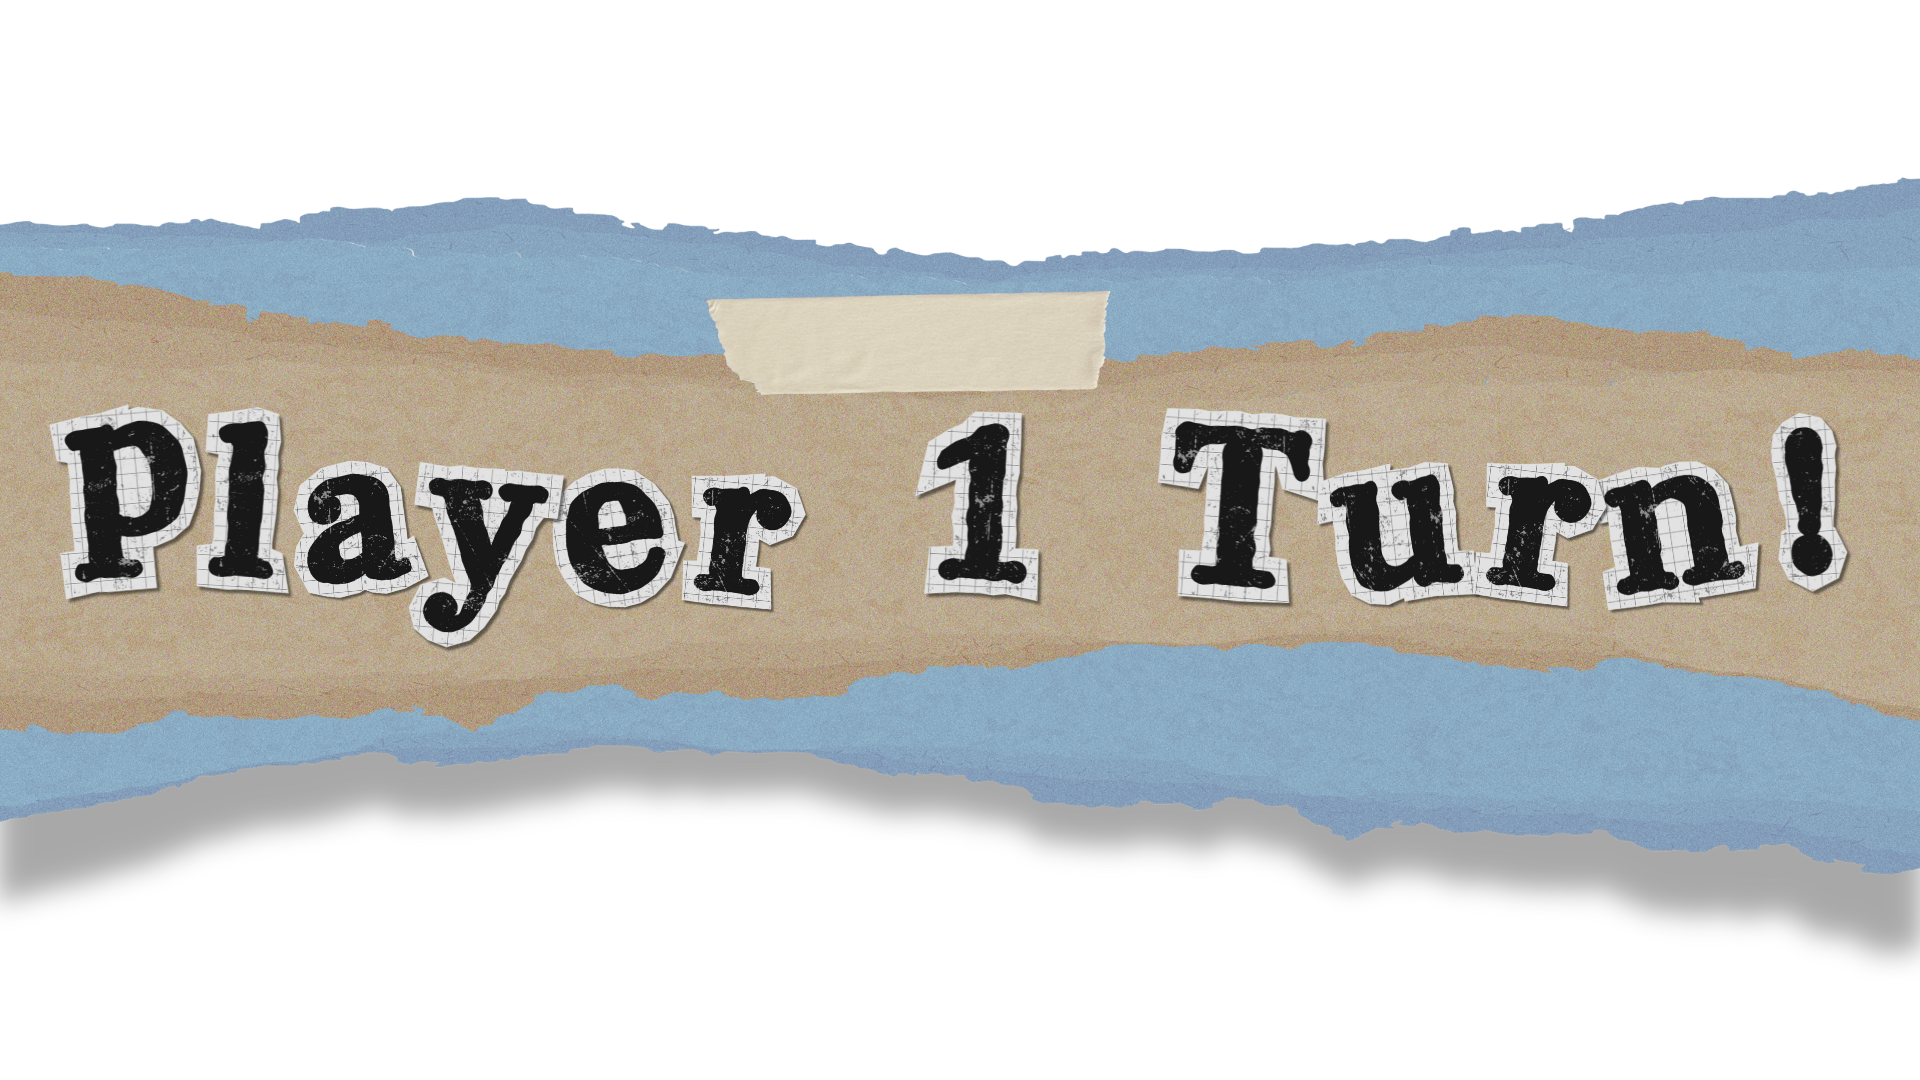
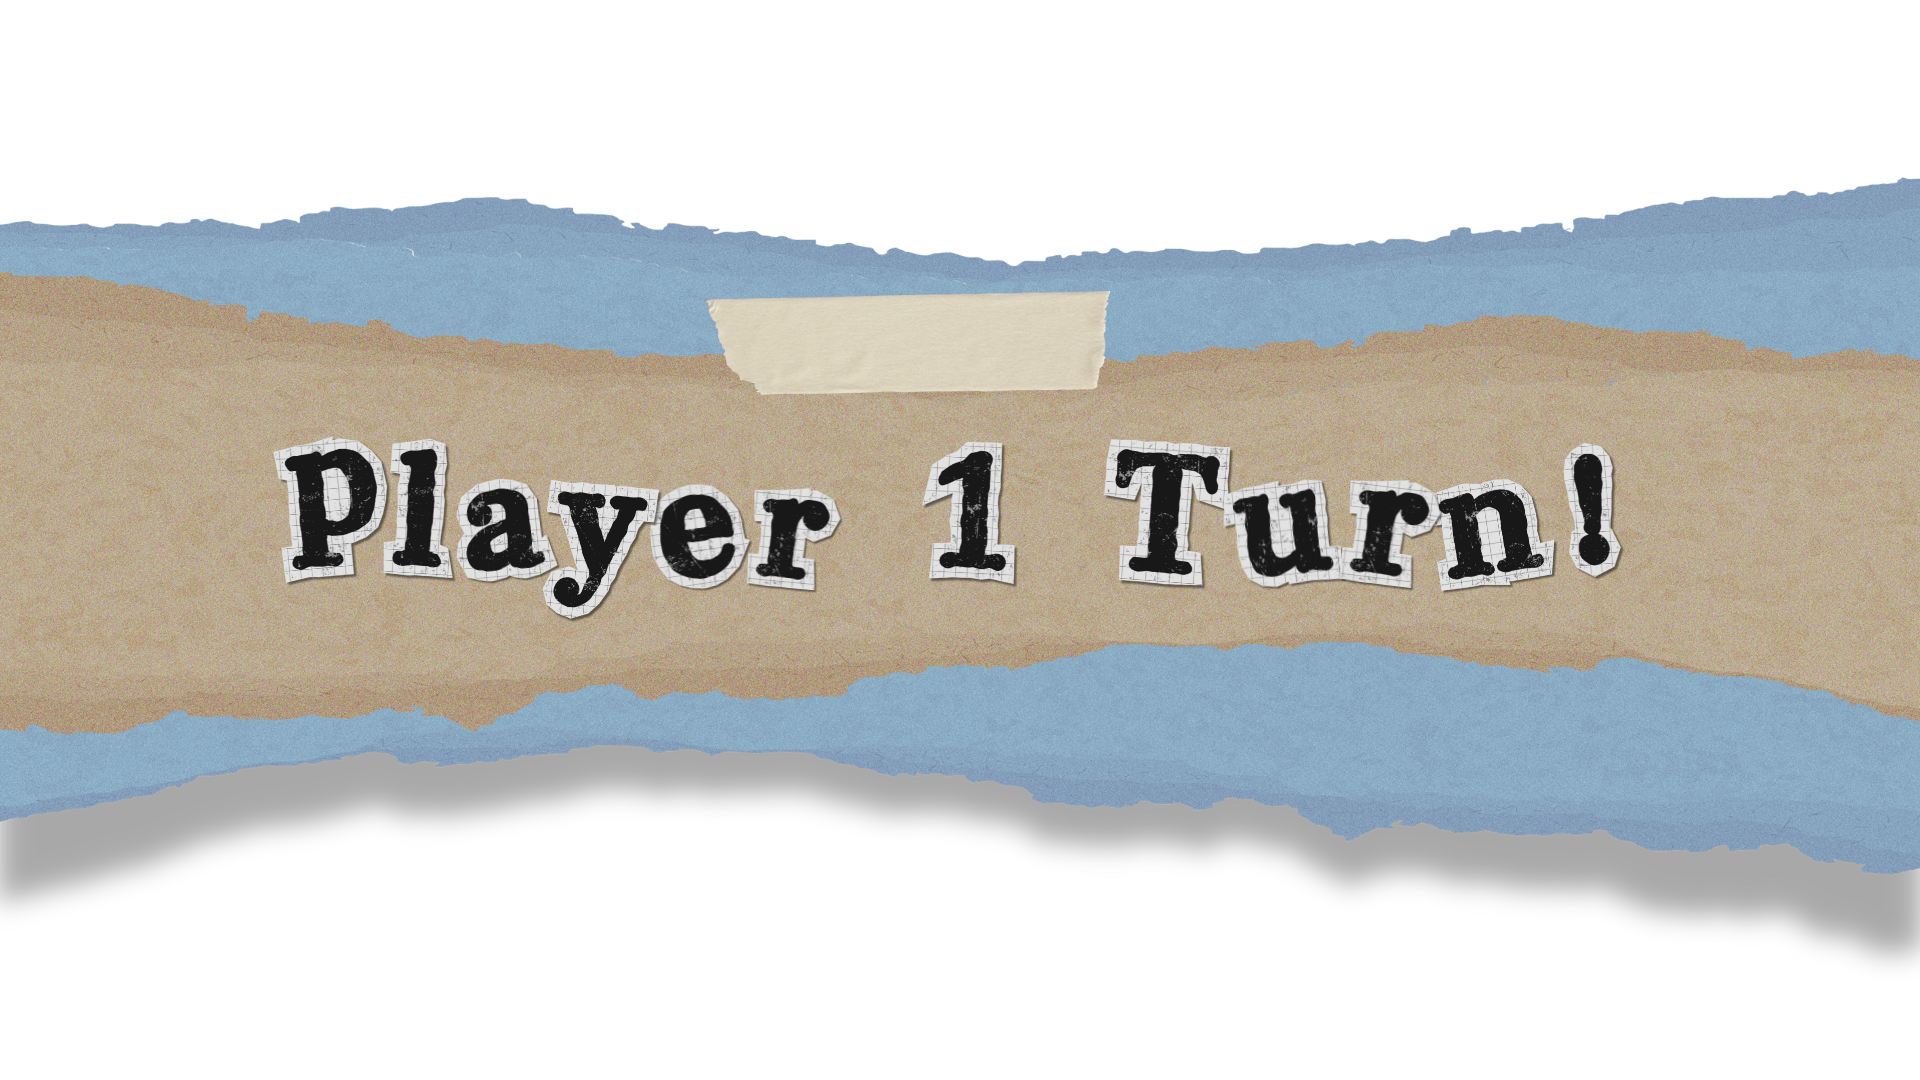
asdfsdfdfds

Changed region(s): [[0.4688, 0.3667, 0.9688, 0.5806], [0.0, 0.3667, 0.4375, 0.6111]]

diff --git a/GameJamProject/Assets/Script/GameManager.cs b/GameJamProject/Assets/Script/GameManager.cs
@@ -45,8 +45,8 @@ public class GameManager : MonoBehaviour
 
     [Header("PopUp")]
     public Image popUpBackground;
-    public TextMeshProUGUI p1Text;
-    public TextMeshProUGUI p2Text;
+    public Image p1Text;
+    public Image p2Text;
     public TextMeshProUGUI gameOverText;
     public TextMeshProUGUI textMatch;
 
@@ -60,6 +60,7 @@ public class GameManager : MonoBehaviour
     public AudioClip notMatchSound;
     public AudioClip timeOutSound;
     public AudioClip gameOverSound;
+
     #endregion
 
     void Start()
